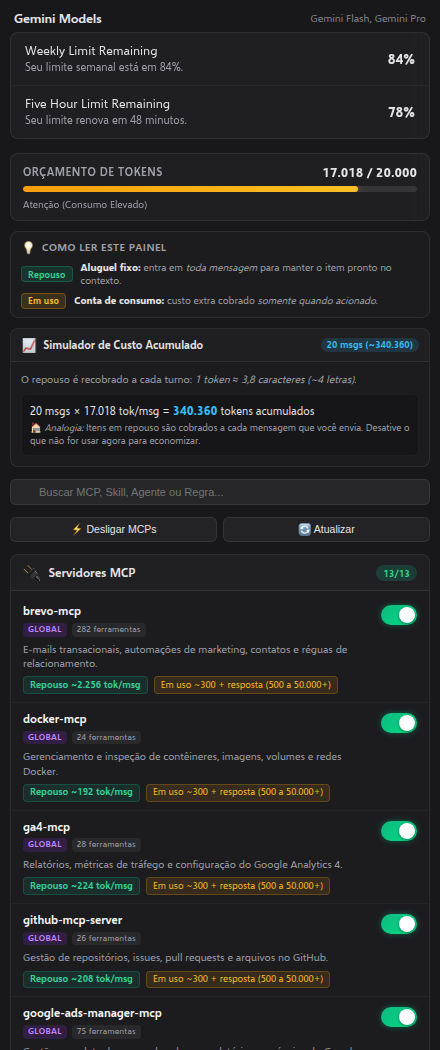
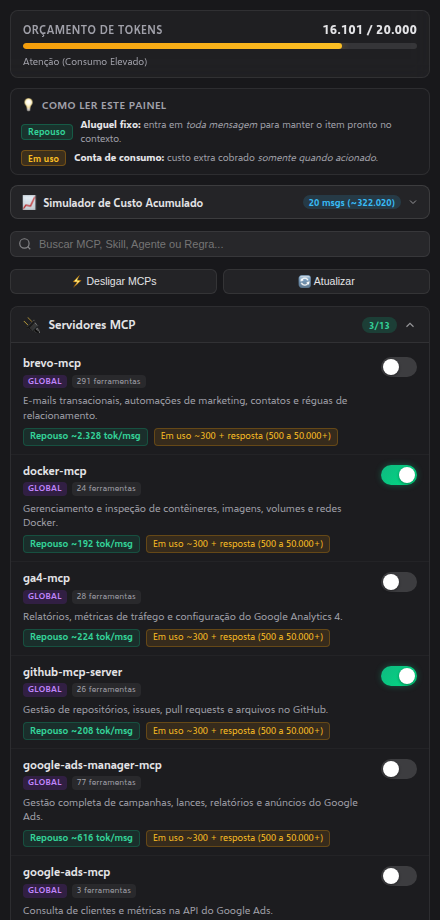
auto-log: atualizar screenshots sem painel de cota, README, CONTRIBUTING e justificativa no CHANGELOG (v2.2.0)

diff --git a/CHANGELOG.md b/CHANGELOG.md
@@ -10,7 +10,10 @@ e este projeto adere ao [Semantic Versioning (SemVer)](https://semver.org/lang/p
 ## [2.2.0] - 2026-11-20
 
 ### Removido
-- **Painel de Cota de Modelos em Tempo Real (Model Quota):** Remoção completa da seção visual de cotas (`Gemini Models` e `Claude and GPT models`), do modelo de integração `QuotaModel` e do ciclo de atualização por *polling* via Language Server RPC, visto que o monitoramento de consumo de modelos foi incorporado nativamente às versões atuais do Google Antigravity IDE.
+- **Painel de Cota de Modelos em Tempo Real (`Gemini Models` e `Claude and GPT models`):** Remoção completa da seção visual de cotas, do modelo `QuotaModel` e do ciclo de atualização contínua via Language Server RPC (`RetrieveUserQuotaSummary`). Com a incorporação nativa do monitoramento de cota de modelos nas versões atuais do Google Antigravity IDE, a exibição duplicada na extensão deixou de ser necessária, permitindo eliminar consultas redundantes em segundo plano (`ps` / `ss` a cada 1 segundo), reduzir consumo de CPU/IPC e evitar alertas de desconexão do Language Server.
+
+### Modificado
+- **Documentação Visual e Interface Streamlined:** Atualização das capturas de tela oficiais e guias no `README.md` refletindo o painel focado exclusivamente no orçamento de contexto (`20.000` tokens), simulador acumulado e governança de servidores MCP, skills, subagentes e regras.
 
 ---
 

diff --git a/CONTRIBUTING.md b/CONTRIBUTING.md
@@ -32,8 +32,8 @@ O repositório possui automação completa via GitHub Actions (`.github/workflow
 * **Nova Release no GitHub:** Ao criar uma nova release oficial pela interface web.
 * **Tags Git Versionadas:** Ao enviar uma tag Git compatível com SemVer:
   ```bash
-  git tag v2.1.0
-  git push origin v2.1.0
+  git tag v2.2.0
+  git push origin v2.2.0
   ```
 * **Disparo Manual (Workflow Dispatch):** Acesse a aba **Actions > Publish to Open VSX > Run workflow** no GitHub.
 

diff --git a/README.md b/README.md
@@ -56,7 +56,7 @@ Controle quais regras do agente devem ser injetadas a cada requisição.
 
 ---
 
-## 💡 Entendendo o Consumo de Tokens (v2.1.0)
+## 💡 Entendendo o Consumo de Tokens (v2.2.0)
 
 Para manter o modelo de IA focado, ágil e dentro do teto de contexto sem surpresas, o Gestor de Tokens IA discrimina exatamente quanto cada item consome:
 
